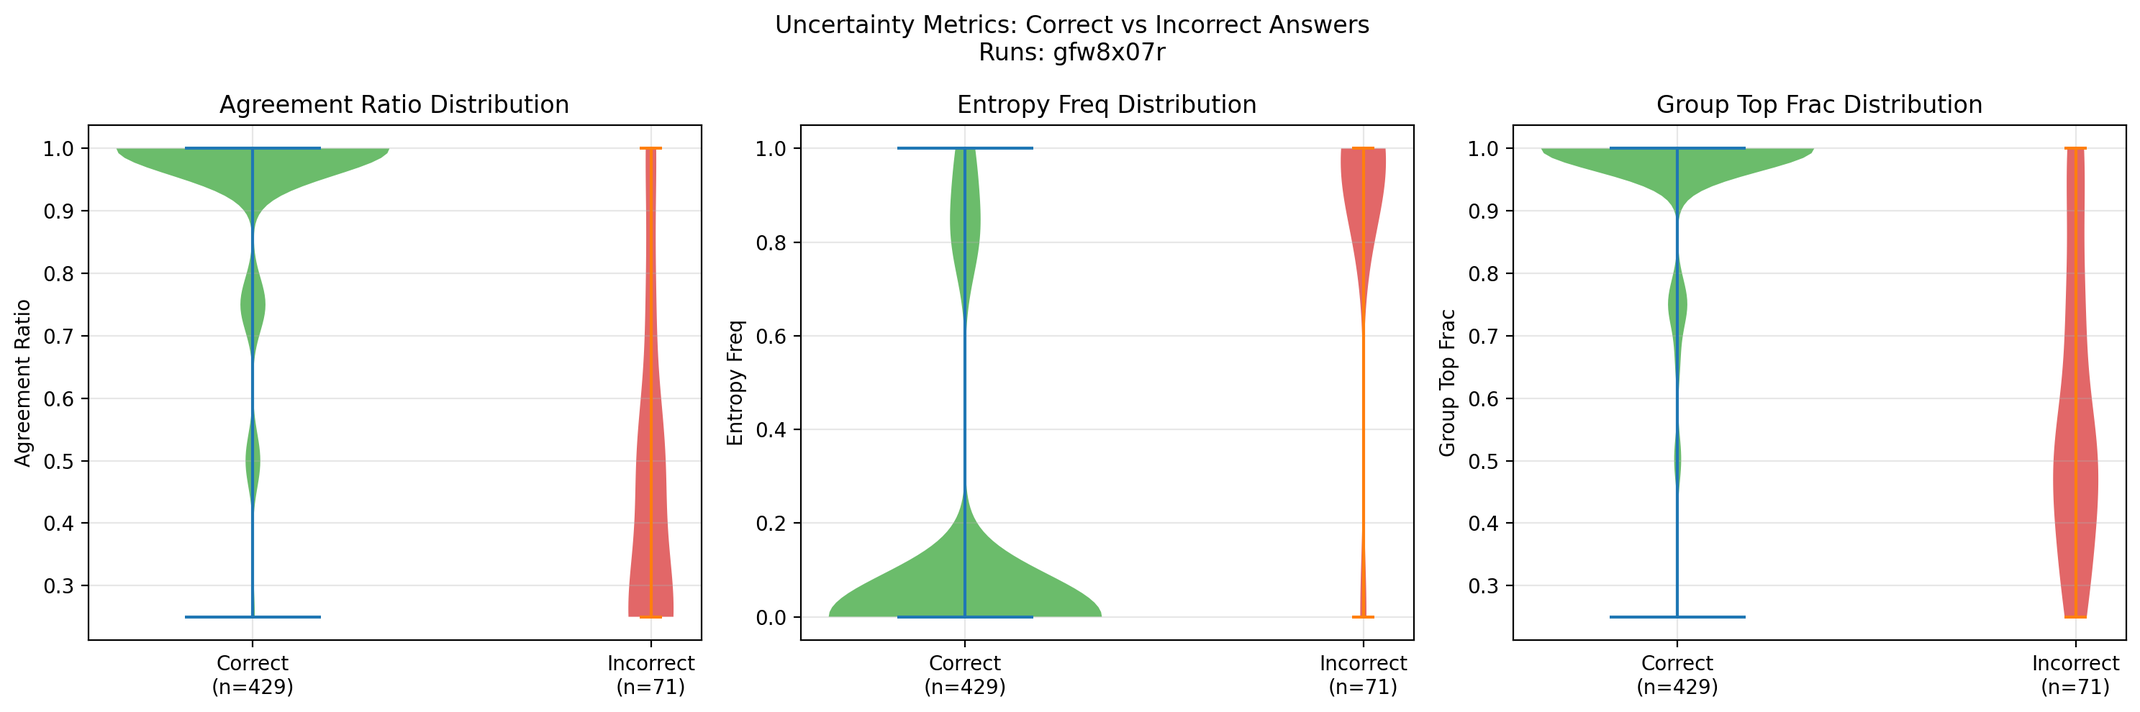
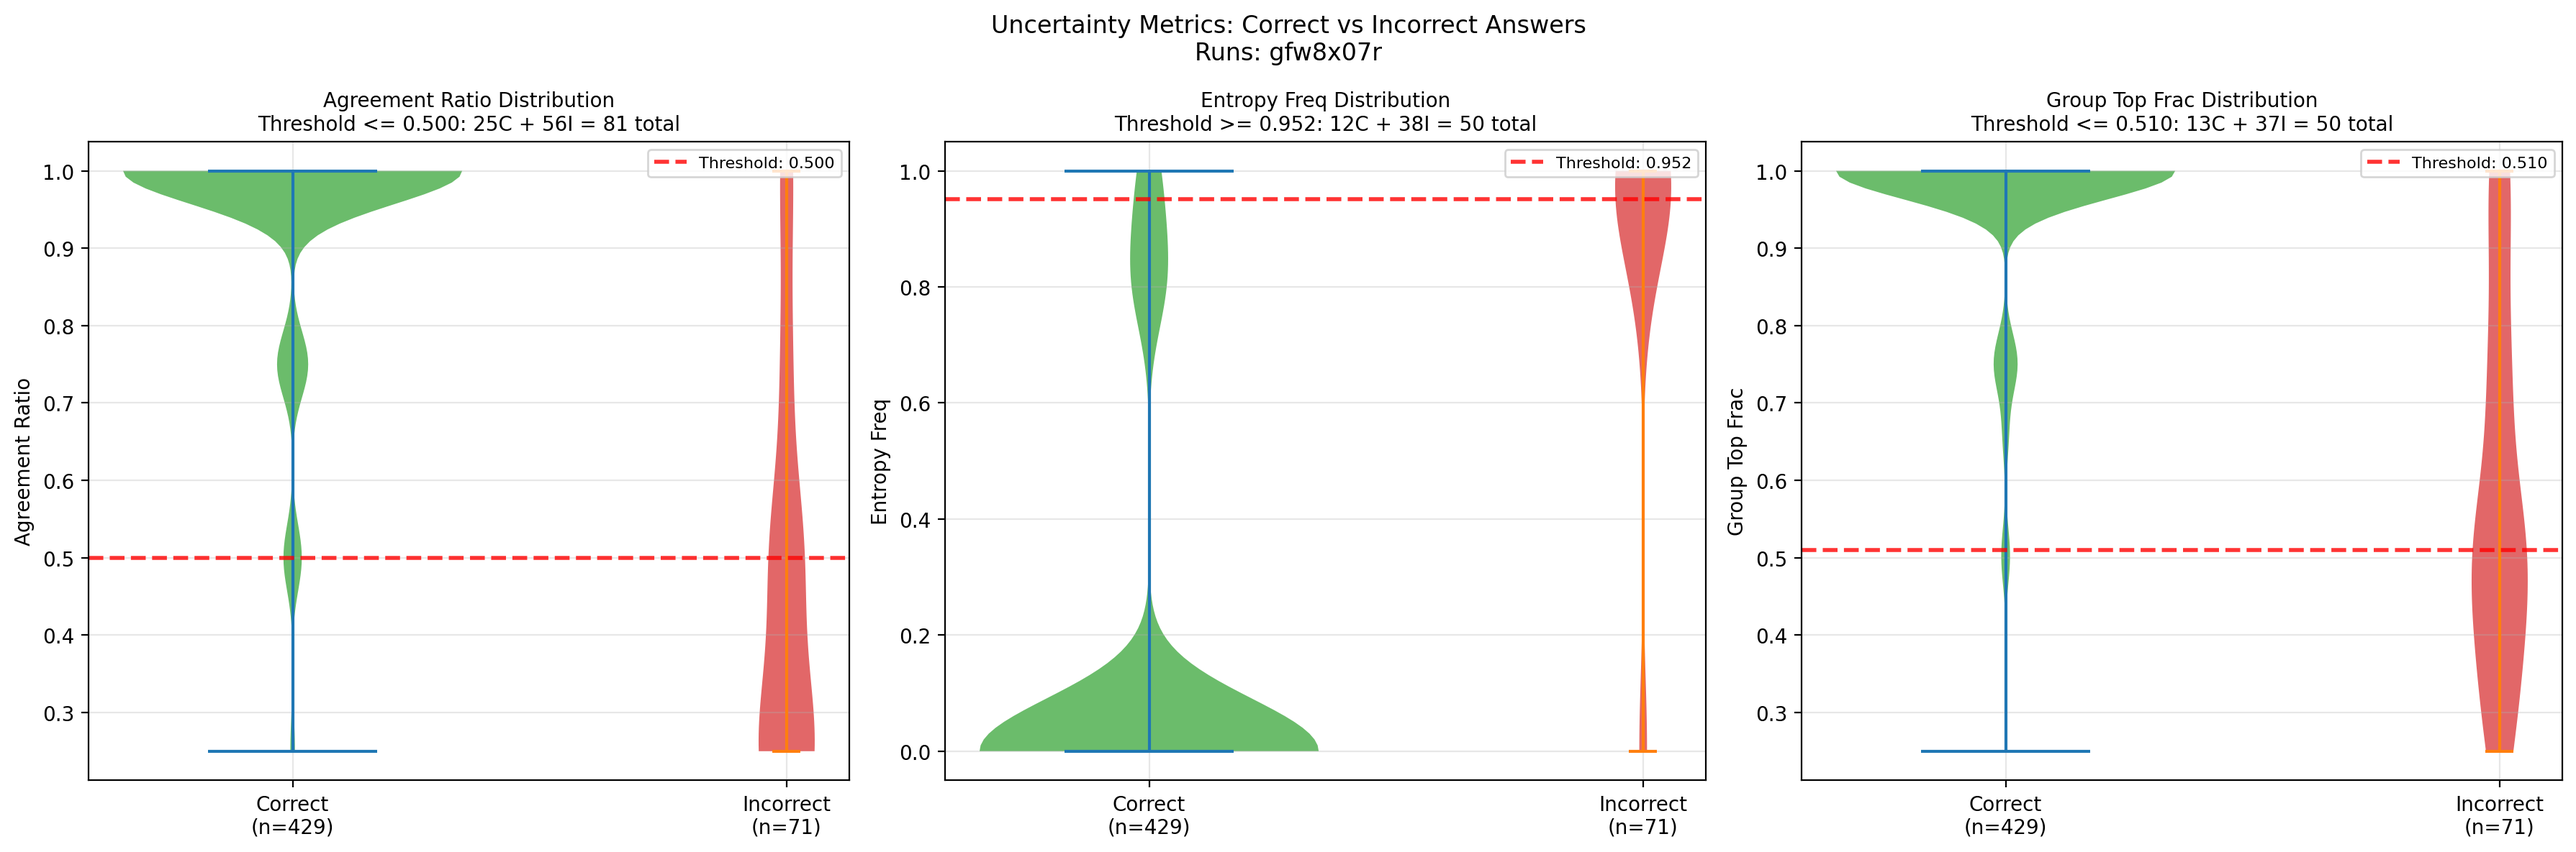
violins

diff --git a/scripts/selection_2.py b/scripts/selection_2.py
@@ -4,9 +4,10 @@ Simple script to count True/False answers for the fusion base runs.
 """
 
 from pathlib import Path
-from typing import List
+from typing import Dict, List
 
 import matplotlib.pyplot as plt
+import numpy as np
 
 from sal.utils.runs import fusion_base_runs_best
 from scripts.inference_visualiser import (
@@ -14,6 +15,62 @@ from scripts.inference_visualiser import (
     _get_question_answer_from_record,
     load_jsonl,
 )
+
+
+def calculate_thresholds(all_data: Dict[str, List[float]]) -> Dict[str, float]:
+    """Calculate thresholds for each metric to capture 10% of data points.
+
+    For agreement_ratio and group_top_frac: use 10th percentile (lower threshold)
+    For entropy_freq: use 90th percentile (upper threshold)
+    """
+    thresholds = {}
+
+    # Combine correct and incorrect data for threshold calculation
+    combined_data = {}
+    for metric in all_data.keys():
+        combined_data[metric] = all_data[metric]
+
+    # Calculate thresholds
+    thresholds["agreement_ratio"] = np.percentile(combined_data["agreement_ratio"], 10)
+    thresholds["entropy_freq"] = np.percentile(combined_data["entropy_freq"], 90)
+    thresholds["group_top_frac"] = np.percentile(combined_data["group_top_frac"], 10)
+
+    return thresholds
+
+
+def analyze_threshold_correctness(
+    correct_data: Dict[str, List[float]],
+    incorrect_data: Dict[str, List[float]],
+    thresholds: Dict[str, float],
+) -> Dict[str, Dict[str, int]]:
+    """Analyze how many correct vs incorrect answers fall within each threshold."""
+    analysis = {}
+
+    for metric in thresholds.keys():
+        if metric in ["agreement_ratio", "group_top_frac"]:
+            # Count values <= threshold
+            correct_selected = sum(
+                1 for x in correct_data[metric] if x <= thresholds[metric]
+            )
+            incorrect_selected = sum(
+                1 for x in incorrect_data[metric] if x <= thresholds[metric]
+            )
+        else:  # entropy_freq
+            # Count values >= threshold
+            correct_selected = sum(
+                1 for x in correct_data[metric] if x >= thresholds[metric]
+            )
+            incorrect_selected = sum(
+                1 for x in incorrect_data[metric] if x >= thresholds[metric]
+            )
+
+        analysis[metric] = {
+            "correct_selected": correct_selected,
+            "incorrect_selected": incorrect_selected,
+            "total_selected": correct_selected + incorrect_selected,
+        }
+
+    return analysis
 
 
 def analyze_and_plot(run_ids: List[str]) -> None:
@@ -27,6 +84,7 @@ def analyze_and_plot(run_ids: List[str]) -> None:
         "entropy_freq": [],
         "group_top_frac": [],
     }
+    all_data = {"agreement_ratio": [], "entropy_freq": [], "group_top_frac": []}
 
     for run_id in run_ids:
         out_file = Path("./output") / run_id / "inference_output.jsonl"
@@ -43,6 +101,11 @@ def analyze_and_plot(run_ids: List[str]) -> None:
             entropy_freq = metrics["entropy_freq"]
             group_top_frac = metrics["group_top_frac"]
 
+            # Add to all_data for threshold calculation
+            all_data["agreement_ratio"].append(agreement_ratio)
+            all_data["entropy_freq"].append(entropy_freq)
+            all_data["group_top_frac"].append(group_top_frac)
+
             # Separate by correctness
             if qa.is_correct:
                 all_correct_data["agreement_ratio"].append(agreement_ratio)
@@ -53,8 +116,43 @@ def analyze_and_plot(run_ids: List[str]) -> None:
                 all_incorrect_data["entropy_freq"].append(entropy_freq)
                 all_incorrect_data["group_top_frac"].append(group_top_frac)
 
-    # Create violin plots
-    create_violin_plots(all_correct_data, all_incorrect_data, run_ids)
+    # Calculate thresholds for 10% selection
+    thresholds = calculate_thresholds(all_data)
+    correctness_analysis = analyze_threshold_correctness(
+        all_correct_data, all_incorrect_data, thresholds
+    )
+
+    # Create violin plots with threshold lines
+    create_violin_plots(
+        all_correct_data, all_incorrect_data, run_ids, thresholds, correctness_analysis
+    )
+
+    # Print threshold analysis
+    total_points = len(all_data["agreement_ratio"])
+    print(f"\nThreshold Analysis (targeting 10% of {total_points} data points):")
+
+    for metric in ["agreement_ratio", "entropy_freq", "group_top_frac"]:
+        direction = "<=" if metric in ["agreement_ratio", "group_top_frac"] else ">="
+        analysis = correctness_analysis[metric]
+        correct_pct = (
+            100 * analysis["correct_selected"] / analysis["total_selected"]
+            if analysis["total_selected"] > 0
+            else 0
+        )
+
+        print(
+            f"  {metric.replace('_', ' ').title()}: {direction} {thresholds[metric]:.4f}"
+        )
+        print(
+            f"    Selected: {analysis['total_selected']} ({100 * analysis['total_selected'] / total_points:.1f}%)"
+        )
+        print(
+            f"    Correct: {analysis['correct_selected']} ({correct_pct:.1f}% of selected)"
+        )
+        print(
+            f"    Incorrect: {analysis['incorrect_selected']} ({100 - correct_pct:.1f}% of selected)"
+        )
+        print()
 
     # Print summary
     total_correct = len(all_correct_data["agreement_ratio"])
@@ -62,22 +160,21 @@ def analyze_and_plot(run_ids: List[str]) -> None:
     total = total_correct + total_incorrect
     accuracy = 100.0 * total_correct / total
 
-    print(f"\nOverall Summary:")
+    print("\nOverall Summary:")
     print(f"  Correct: {total_correct}, Incorrect: {total_incorrect}")
     print(f"  Accuracy: {accuracy:.1f}%")
 
 
-def create_violin_plots(correct_data, incorrect_data, run_ids):
-    """Create violin plots for the 3 uncertainty metrics."""
+def create_violin_plots(
+    correct_data, incorrect_data, run_ids, thresholds, correctness_analysis
+):
+    """Create violin plots for the 3 uncertainty metrics with threshold lines."""
     metrics = ["agreement_ratio", "entropy_freq", "group_top_frac"]
 
-    fig, axes = plt.subplots(1, 3, figsize=(15, 5))
+    fig, axes = plt.subplots(1, 3, figsize=(18, 6))
 
     for i, metric in enumerate(metrics):
         ax = axes[i]
-
-        # Prepare data for violin plot
-        data_to_plot = [correct_data[metric], incorrect_data[metric]]
 
         # Create violin plot with proportional widths
         correct_count = len(correct_data[metric])
@@ -100,16 +197,37 @@ def create_violin_plots(correct_data, incorrect_data, run_ids):
         parts2["bodies"][0].set_facecolor("#d62728")
         parts2["bodies"][0].set_alpha(0.7)
 
-        # Customize plot with counts
+        # Add threshold line
+        threshold_value = thresholds[metric]
+        ax.axhline(
+            y=threshold_value,
+            color="red",
+            linestyle="--",
+            linewidth=2,
+            alpha=0.8,
+            label=f"Threshold: {threshold_value:.3f}",
+        )
+
+        # Customize plot with counts and threshold info
         correct_count = len(correct_data[metric])
         incorrect_count = len(incorrect_data[metric])
+        analysis = correctness_analysis[metric]
+
         ax.set_xticks([1, 2])
         ax.set_xticklabels(
             [f"Correct\n(n={correct_count})", f"Incorrect\n(n={incorrect_count})"]
         )
         ax.set_ylabel(f"{metric.replace('_', ' ').title()}")
-        ax.set_title(f"{metric.replace('_', ' ').title()} Distribution")
+
+        # Enhanced title with threshold info
+        direction = "<=" if metric in ["agreement_ratio", "group_top_frac"] else ">="
+        selected_correct = analysis["correct_selected"]
+        selected_incorrect = analysis["incorrect_selected"]
+        title = f"{metric.replace('_', ' ').title()} Distribution\nThreshold {direction} {threshold_value:.3f}: {selected_correct}C + {selected_incorrect}I = {selected_correct + selected_incorrect} total"
+        ax.set_title(title, fontsize=10)
+
         ax.grid(True, alpha=0.3)
+        ax.legend(loc="upper right", fontsize=8)
 
     plt.suptitle(
         f"Uncertainty Metrics: Correct vs Incorrect Answers\nRuns: {', '.join(run_ids)}"
